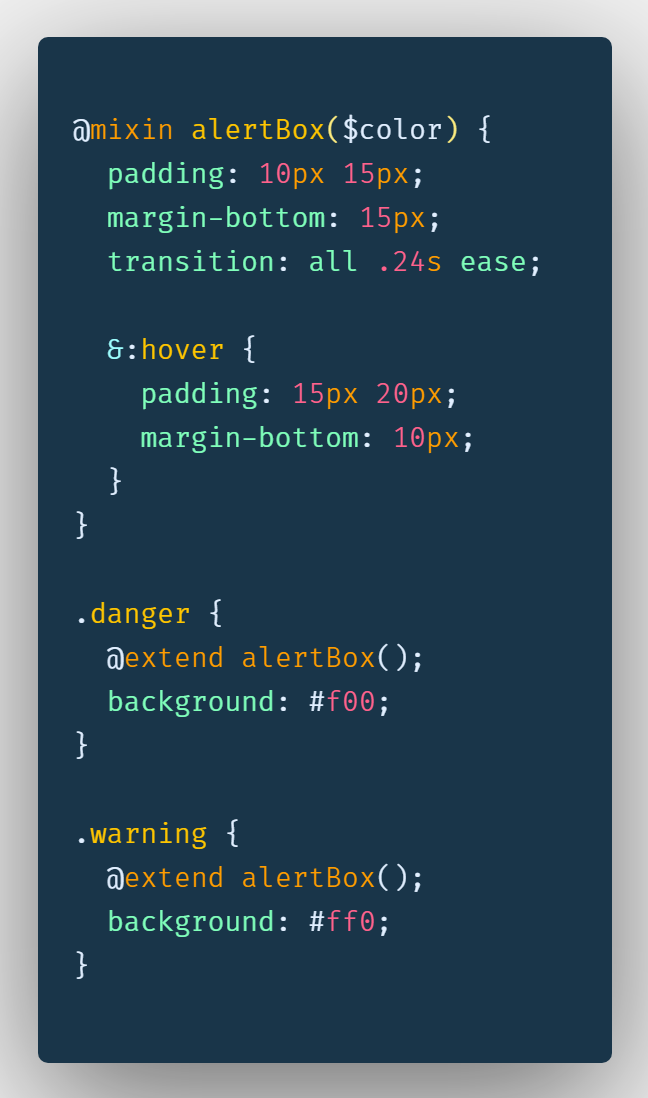
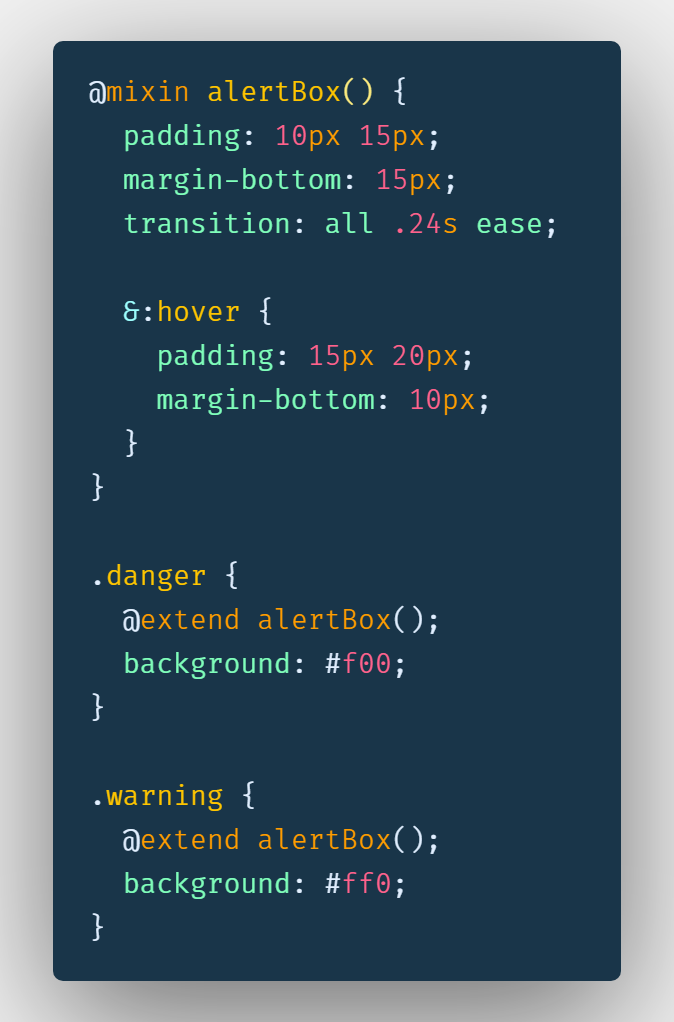
one last type and image update

diff --git a/AdvancedSass/AdvancedSass.md b/AdvancedSass/AdvancedSass.md
@@ -583,7 +583,7 @@ Extending is invisible? What? This is a pretty big deal when considering the cas
 Extending doesn't necessarily help with file weight? If we are not repeating code, doesn't that help file size? The answer is yes and no. Let's look at an example.
 
 ```Scss
-@mixin alertBox($color) {
+@mixin alertBox() {
   padding: 10px 15px;
   margin-bottom: 15px;
   transition: all .24s ease;
@@ -631,7 +631,7 @@ The output would be:
 If we use `@include` instead?
 
 ```Scss
-@mixin alertBox($color) {
+@mixin alertBox() {
   padding: 10px 15px;
   margin-bottom: 15px;
   transition: all .24s ease;
